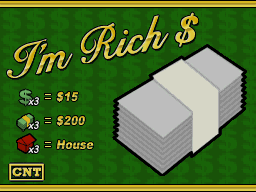
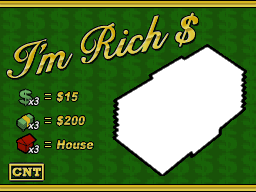
day18

Changed region(s): [[0.4375, 0.25, 0.9688, 0.9062]]

diff --git a/src/pages/Week3/Day18/Day18.js b/src/pages/Week3/Day18/Day18.js
@@ -1,0 +1,116 @@
+import './Day18.css'
+import {useEffect, useState} from "react";
+import {useNavigate} from "react-router-dom";
+import home from "../../../home.png";
+import replay from "../../../replay.png";
+import $ from './$.png';
+import house from './house.png'
+import bills from './bills.png';
+
+const IMGS = [$, bills, house];
+
+const brush_size = 48;
+
+export const Day18 = () => {
+
+    const navigate = useNavigate();
+    const [mouseDown, setMouseDown] = useState(false);
+    const [symbols, setSymbols] = useState([0, 0, 0, 0, 0, 0]);
+    const [winningSymbol, setWinningSymbol] = useState(-1);
+    const [over, setOver] = useState(false);
+
+    useEffect(() => {
+        const canvas = document.getElementById('canvas');
+        const context = canvas.getContext('2d');
+
+        const image = document.getElementById('front');
+        canvas.width = canvas.offsetWidth;
+        canvas.height = canvas.offsetHeight
+        image.addEventListener('load', function () {
+            reset();
+        });
+
+        context.fillStyle = 'rgba(0, 0, 0, 1)';
+
+    }, []);
+
+    const draw = ev => {
+        if(!mouseDown)return;
+        const rect = ev.target.getBoundingClientRect();
+        const x = ev.clientX - rect.left;
+        const y = ev.clientY - rect.top;
+        const context = ev.target.getContext('2d');
+        context.fillRect(x - brush_size/2, y - brush_size/2, brush_size, brush_size);
+
+    }
+
+    const mouseUp = (ev) => {
+        setMouseDown(false);
+        const canvas = ev.target
+        const context = canvas.getContext('2d');
+        const left   = canvas.width * 115 / 256;
+        const top    = canvas.height * 48 / 192;
+        const width  = canvas.width / 2; //* 128 / 256
+        const height = canvas.height * 128 / 192;
+        console.log({left, top, width, height})
+        const img_data = [...context.getImageData(left, top, width, height).data];
+        let ratio = img_data.filter((v, i) => v > 0).length / img_data.length;
+        ratio += 0.4;
+        if(ratio < .55)
+            setOver(true);
+    }
+
+
+    const reset = () => {
+        setOver(false);
+        const x = Math.floor(Math.random()*100);
+        let newWinningSymbol;
+        if(x === 0)
+            newWinningSymbol = 2;
+        else if(x < 10)
+            newWinningSymbol = 1;
+        else if(x < 50)
+            newWinningSymbol = 0;
+        else
+            newWinningSymbol = -1;
+        setWinningSymbol(newWinningSymbol);
+        let newSymboles = [newWinningSymbol, newWinningSymbol, newWinningSymbol, 0, 0, 0];
+        if(newWinningSymbol === -1)
+            newSymboles = [0, 0, 1, 1, 2, 2];
+        else
+            for(let i = 3; i < 6; i++){
+                do{
+                    newSymboles[i] = Math.floor(Math.random()*3);
+                }while (newSymboles[i] === newWinningSymbol || (i === 5 && newSymboles[5] === newSymboles[4]));
+            }
+        setSymbols(newSymboles.sort(() => Math.random() > .5));
+
+            const canvas = document.getElementById('canvas');
+        const context = canvas.getContext('2d');
+        const image = document.getElementById('front');
+
+        context.globalCompositeOperation="source-over";
+        context.drawImage(image, 0, 0, 256, 192, 0, 0, canvas.width, canvas.height);
+        context.globalCompositeOperation="destination-out";
+    }
+
+
+    return <div>
+        <img src={home} alt="" id="home" width={60} onClick={() => navigate('/')}/>
+        {over && <img src={replay} alt="" id="replay" width={60} onClick={reset}/>}
+
+        <div id="container18">
+
+            {symbols.map((s, i) => <img key={i} className="symbol" src={IMGS[s]} style={s === winningSymbol && over ? {opacity: '50%'} : {}}/>)}
+
+            <canvas id="canvas"
+                    onMouseMove={draw}
+                    onMouseDown={() => setMouseDown(true)}
+                    onMouseUp={mouseUp}
+            ></canvas>
+
+            <img src={`${process.env.PUBLIC_URL}/day18/front.png`} id="front" alt="" style={{display: 'none'}}/>
+
+        </div>
+    </div>
+}

diff --git a/src/pages/Week3/Day18/Day18.css b/src/pages/Week3/Day18/Day18.css
@@ -1,0 +1,53 @@
+#container18 {
+  position: absolute;
+  height: 100vh;
+  --width: calc(100vh * 256 / 192);
+  width: var(--width);
+  left: calc(50vw - var(--width) / 2);
+  background-image: url("/public/day18/bg.png");
+  background-size: 100%;
+  image-rendering: pixelated;
+}
+#container18 #canvas {
+  position: fixed;
+  height: 100vh;
+  --width: calc(100vh * 256 / 192);
+  width: var(--width);
+  left: calc(50vw - var(--width) / 2);
+}
+#container18 .symbol {
+  position: absolute;
+  width: 15.625vh;
+  left: calc(100vh * var(--left) / 192);
+  top: calc(100vh * var(--top) / 192);
+  -webkit-user-select: none; /* Safari */
+  -moz-user-select: none; /* Firefox */
+  -ms-user-select: none; /* IE10+/Edge */
+  user-select: none; /* Standard */
+}
+#container18 .symbol:nth-of-type(1) {
+  --left: 130;
+  --top: 90;
+}
+#container18 .symbol:nth-of-type(2) {
+  --left: 160;
+  --top: 70;
+}
+#container18 .symbol:nth-of-type(3) {
+  --left: 190;
+  --top: 50;
+}
+#container18 .symbol:nth-of-type(4) {
+  --left: 150;
+  --top: 130;
+}
+#container18 .symbol:nth-of-type(5) {
+  --left: 180;
+  --top: 110;
+}
+#container18 .symbol:nth-of-type(6) {
+  --left: 210;
+  --top: 90;
+}
+
+/*# sourceMappingURL=Day18.css.map */

diff --git a/src/pages/Week3/Day18/Day18.scss b/src/pages/Week3/Day18/Day18.scss
@@ -1,0 +1,63 @@
+#container18{
+
+  position: absolute;
+  height: 100vh;
+  --width: calc(100vh * 256 / 192);
+  width: var(--width);
+  left: calc(50vw - var(--width) / 2);
+
+  background-image: url("/public/day18/bg.png");
+  background-size: 100%;
+  image-rendering: pixelated;
+
+  #canvas{
+    position: fixed;
+    height: 100vh;
+    --width: calc(100vh * 256 / 192);
+    width: var(--width);
+    left: calc(50vw - var(--width) / 2);
+  }
+
+  .symbol{
+    position: absolute;
+    width: calc(100vh * 30 / 192);
+    left: calc(100vh * var(--left) / 192);
+    top: calc(100vh * var(--top) / 192);
+    -webkit-user-select: none; /* Safari */
+    -moz-user-select: none; /* Firefox */
+    -ms-user-select: none; /* IE10+/Edge */
+    user-select: none; /* Standard */
+  }
+
+  .symbol:nth-of-type(1){
+    --left: 130;
+    --top: 90;
+  }
+
+  .symbol:nth-of-type(2){
+    --left: 160;
+    --top: 70;
+  }
+
+  .symbol:nth-of-type(3){
+    --left: 190;
+    --top: 50;
+  }
+
+
+  .symbol:nth-of-type(4){
+    --left: 150;
+    --top: 130;
+  }
+
+  .symbol:nth-of-type(5){
+    --left: 180;
+    --top: 110;
+  }
+
+  .symbol:nth-of-type(6){
+    --left: 210;
+    --top: 90;
+  }
+
+}

diff --git a/src/App.js b/src/App.js
@@ -20,6 +20,7 @@ import {Day15} from "./pages/Week3/Day15/Day15";
 import {Day16} from "./pages/Week3/Day16/Day16";
 import {Day22} from "./pages/Week4/Day22/Day22";
 import {Day17} from "./pages/Week3/Day17/Day17";
+import {Day18} from "./pages/Week3/Day18/Day18";
 
 function App() {
 
@@ -56,6 +57,7 @@ function App() {
                     <Route path={'/armadillo'} element={<Day15/>}/>
                     <Route path={'/fowl'} element={<Day16/>}/>
                     <Route path={'/salty'} element={<Day17/>}/>
+                    <Route path={'/scrape'} element={<Day18/>}/>
 
                     <Route path={'/heist'} element={<Day22/>}/>
                 </>}

diff --git a/src/App.css b/src/App.css
@@ -48,6 +48,10 @@ body{
     bottom: 20px;
     cursor: pointer;
     z-index: 9999;
+    -webkit-user-select: none; /* Safari */
+    -moz-user-select: none; /* Firefox */
+    -ms-user-select: none; /* IE10+/Edge */
+    user-select: none; /* Standard */
 }
 
 #replay{
@@ -57,4 +61,8 @@ body{
     bottom: 20px;
     cursor: pointer;
     z-index: 9999;
+    -webkit-user-select: none; /* Safari */
+    -moz-user-select: none; /* Firefox */
+    -ms-user-select: none; /* IE10+/Edge */
+    user-select: none; /* Standard */
 }

diff --git a/src/pages/Home/Home.css b/src/pages/Home/Home.css
@@ -5,7 +5,7 @@ body{
 .grid{
     position: absolute;
     top: 160px;
-    --width: 50vw;
+    --width: 40vw;
     width: var(--width);
     left: calc(50vw - var(--width)/2);
     height: calc(95vh - 160px);

diff --git a/src/pages/Home/Home.js b/src/pages/Home/Home.js
@@ -42,7 +42,7 @@ function Home({isMobile}){
 
     const navigate = useNavigate();
     let i = 1;
-    themes.length = 22 + 2;
+    themes.length = 19;
 
 
     return <div>
